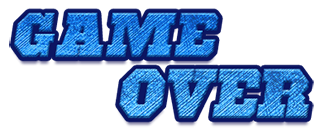
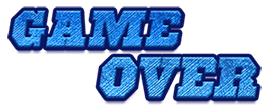
moonwarriors resource was changed

diff --git a/samples/js-moonwarriors/src/GameOver.js b/samples/js-moonwarriors/src/GameOver.js
@@ -49,15 +49,28 @@ var GameOver = cc.Layer.extend({
         logo.attr({
             anchorX: 0,
             anchorY: 0,
-            x: 0,
+            x: 40,
             y: 450,
             scale: MW.SCALE
         });
         this.addChild(logo,10,1);
 
-        var playAgainNormal = new cc.Sprite(res.menu_png, cc.rect(378, 0, 126, 33));
-        var playAgainSelected = new cc.Sprite(res.menu_png, cc.rect(378, 33, 126, 33));
-        var playAgainDisabled = new cc.Sprite(res.menu_png, cc.rect(378, 33 * 2, 126, 33));
+        var logoBack = new cc.Sprite(res.gameOverBack_png);
+        logoBack.attr({
+            anchorX: 0,
+            anchorY: 0,
+            x: 50,
+            y: logo.y - 30,
+            scale: MW.SCALE
+        });
+        this.addChild(logoBack, 9);
+
+        var singalHeight = MW.menuHeight;
+        var singalWidth = MW.menuWidth;
+
+        var playAgainNormal = new cc.Sprite(res.menu_png, cc.rect(singalWidth * 3, 0, singalWidth, singalHeight));
+        var playAgainSelected = new cc.Sprite(res.menu_png, cc.rect(singalWidth * 3, singalHeight, singalWidth, singalHeight));
+        var playAgainDisabled = new cc.Sprite(res.menu_png, cc.rect(singalWidth * 3, singalHeight * 2, singalWidth, singalHeight));
 
         var cocos2dhtml5 = new cc.Sprite(res.cocos2d_html5_png);
         cocos2dhtml5.x = 240;
@@ -79,11 +92,13 @@ var GameOver = cc.Layer.extend({
         var lbScore = new cc.LabelTTF("Your Score:"+MW.SCORE,"Arial Bold",24);
         lbScore.x = 240;
         lbScore.y = 370;
-        lbScore.color = cc.color(250,179,0);
+        lbScore.color = cc.color(255,0,0);
         this.addChild(lbScore,10);
 
         var b1 = new cc.LabelTTF("Download Cocos2d-JS","Arial",21);
+        b1.setColor(cc.color(MW.FONTCOLOR));
         var b2 = new cc.LabelTTF("Github Repository","Arial",21);
+        b2.setColor(cc.color(MW.FONTCOLOR));
         var menu1 = new cc.MenuItemLabel(b1,function(){
             window.location.href = "http://www.cocos2d-x.org/download";
         });

diff --git a/samples/js-moonwarriors/src/SettingsLayer.js b/samples/js-moonwarriors/src/SettingsLayer.js
@@ -53,14 +53,14 @@ var SettingsLayer = cc.Layer.extend({
         cc.MenuItemFont.setFontSize(18);
         var title1 = new cc.MenuItemFont("Sound");
         title1.setEnabled(false);
-        title1.getLabel().setColor(cc.color("#1f2d96"));
+        title1.setColor(cc.color(MW.FONTCOLOR));
 
         cc.MenuItemFont.setFontName("Arial");
         cc.MenuItemFont.setFontSize(26);
         var item1 = new cc.MenuItemToggle(
-            new cc.MenuItemFont("On"),
-            new cc.MenuItemFont("Off") );
+            new cc.MenuItemFont("On"),new cc.MenuItemFont("Off"));
         item1.setCallback(this.onSoundControl );
+        item1.setColor(cc.color(MW.FONTCOLOR));
         var state = MW.SOUND ? 0 : 1;
         item1.setSelectedIndex(state);
 
@@ -68,6 +68,7 @@ var SettingsLayer = cc.Layer.extend({
         cc.MenuItemFont.setFontSize(18);
         var title2 = new cc.MenuItemFont("Mode");
         title2.setEnabled(false);
+        title2.setColor(cc.color(MW.FONTCOLOR));
 
         cc.MenuItemFont.setFontName("Arial");
         cc.MenuItemFont.setFontSize(26);
@@ -75,12 +76,14 @@ var SettingsLayer = cc.Layer.extend({
             new cc.MenuItemFont("Easy"),
             new cc.MenuItemFont("Normal"),
             new cc.MenuItemFont("Hard"));
+        item2.setColor(cc.color(MW.FONTCOLOR));
         item2.setCallback( this.onModeControl );
 
 
         cc.MenuItemFont.setFontName("Arial");
         cc.MenuItemFont.setFontSize(26);
         var label = new cc.LabelTTF("Go back", "Arial", 20);
+        label.setColor(cc.color(MW.FONTCOLOR));
         var back = new cc.MenuItemLabel(label, this.onBackCallback);
         back.scale = 0.8;
 

diff --git a/samples/js-moonwarriors/src/SysMenu.js b/samples/js-moonwarriors/src/SysMenu.js
@@ -67,8 +67,8 @@ var SysMenu = cc.Layer.extend({
         });
         this.addChild(logoBack, 9);
 
-        var singalHeight = 36;
-        var singalWidth = 123;
+        var singalHeight = MW.menuHeight;
+        var singalWidth = MW.menuWidth;
         var newGameNormal = new cc.Sprite(res.menu_png, cc.rect(0, 0, singalWidth, singalHeight));
         var newGameSelected = new cc.Sprite(res.menu_png, cc.rect(0, singalHeight, singalWidth, singalHeight));
         var newGameDisabled = new cc.Sprite(res.menu_png, cc.rect(0, singalHeight * 2, singalWidth, singalHeight));
@@ -99,6 +99,13 @@ var SysMenu = cc.Layer.extend({
         this.addChild(menu, 1, 2);
         menu.x = winSize.width / 2;
         menu.y = winSize.height / 2 - 140;
+
+        var label = new cc.LabelTTF("Power by Cocos2d-JS", "Arial", 21);
+        label.setColor(cc.color(MW.FONTCOLOR));
+        this.addChild(label, 1);
+        label.x = winSize.width  / 2;
+        label.y = 80;
+
         this.schedule(this.update, 0.1);
 
         this._ship = new cc.Sprite("#ship03.png");

diff --git a/samples/js-moonwarriors/src/AboutLayer.js b/samples/js-moonwarriors/src/AboutLayer.js
@@ -56,9 +56,11 @@ var AboutLayer = cc.Layer.extend({
             anchorX: 0.5,
             anchorY: 0.5
         });
+        about.setColor(cc.color(MW.FONTCOLOR));
         this.addChild(about);
 
         var label = new cc.LabelTTF("Go back", "Arial", 21);
+        label.setColor(cc.color(MW.FONTCOLOR));
         var back = new cc.MenuItemLabel(label, this.onBackCallback);
         var menu = new cc.Menu(back);
         menu.x = winSize.width / 2;

diff --git a/samples/js-moonwarriors/src/GameControlMenu.js b/samples/js-moonwarriors/src/GameControlMenu.js
@@ -39,6 +39,7 @@ var GameControlMenu = cc.Layer.extend({
         cc.MenuItemFont.setFontSize(24);
         cc.MenuItemFont.setFontName("Arial");
         var systemMenu = new cc.MenuItemFont("Main Menu", this.onSysMenu);
+        systemMenu.setColor(cc.color(MW.FONTCOLOR));
         var menu = new cc.Menu(systemMenu);
         menu.x = 0;
         menu.y = 0;

diff --git a/samples/js-moonwarriors/src/config/GameConfig.js b/samples/js-moonwarriors/src/config/GameConfig.js
@@ -128,3 +128,6 @@ MW.FLAREY = 445;
 MW.SCALE = 1.5;
 MW.WIDTH = 480;
 MW.HEIGHT = 720;
+MW.FONTCOLOR = "#1f2d96";
+MW.menuHeight = 36;
+MW.menuWidth = 123;
